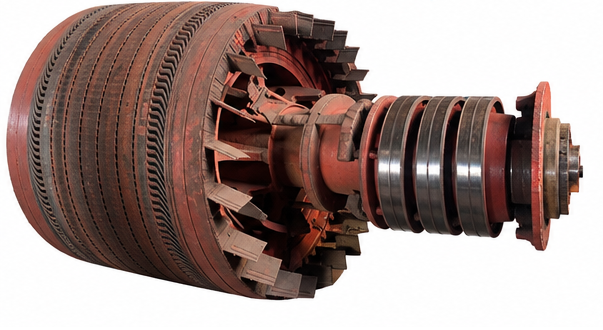
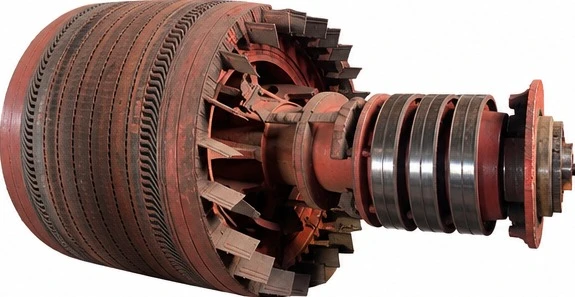
mengganti foto jadi background putih

diff --git a/src/content/site.ts b/src/content/site.ts
@@ -163,6 +163,10 @@ export type Project = {
   year?: string;
   summary?: string;
   image?: string; // "/images/portofolio/nama-file.jpg"
+  // Opsional — titik fokus saat foto dipotong ke kotak, mis. "50% 30%" (kiri-kanan, atas-bawah)
+  focus?: string;
+  // Opsional — "contain" untuk foto berlatar putih/objek terpisah agar tampil utuh, tidak terpotong
+  fit?: "cover" | "contain";
 };
 
 // Diambil dari halaman portofolio situs lama (halaman 1–3).
@@ -172,37 +176,37 @@ export const PROJECTS: Project[] = [
   { title: "Rewinding Motor 1.900 kW", service: "electrical-motor-rewinding", image: "/images/portofolio/rewinding-motor-1900kw.jpg" },
   { title: "Rewinding Motor DC 300 kW", service: "electrical-motor-rewinding", image: "/images/portofolio/rewinding-dc-motor-300kw.jpg" },
   { title: "Rewinding Trafo 2.800 kVA", service: "transformer-maintenance", image: "/images/portofolio/rewinding-trafo-2800kva.jpg" },
-  { title: "Rewinding Trafo 1.250 kVA", service: "transformer-maintenance", image: "/images/portofolio/rewinding-trafo-1250kva.jpg" },
+  { title: "Rewinding Trafo 1.250 kVA", service: "transformer-maintenance", image: "/images/portofolio/rewinding-trafo-1250kva.jpg", fit: "contain" },
   { title: "Rewinding Motor Slipring 2.800 kW", service: "electrical-motor-rewinding", image: "/images/portofolio/rewinding-motor-slipring-2800kw.jpg" },
-  { title: "Overhaul ID Fan 2.500 kW", client: "PLTU Babelan", industry: "Pembangkit Listrik", image: "/images/portofolio/overhaul-id-fan-2500kw-pltu-babelan.jpg" },
-  { title: "Balancing Shaft Rotor 110 kW", service: "mechanical-services", image: "/images/portofolio/balancing-shaft-rotor-110kw.jpg" },
+  { title: "Overhaul ID Fan 2.500 kW", client: "PLTU Babelan", industry: "Pembangkit Listrik", image: "/images/portofolio/overhaul-id-fan-2500kw-pltu-babelan.jpg", focus: "50% 60%" },
+  { title: "Balancing Shaft Rotor 110 kW", service: "mechanical-services", image: "/images/portofolio/balancing-shaft-rotor-110kw.jpg", fit: "contain" },
   { title: "Penggantian Shaft Rotor Motor 250 kW", service: "mechanical-services", image: "/images/portofolio/penggantian-shaft-rotor-250kw.jpg" },
-  { title: "Balancing Screw", service: "mechanical-services", image: "/images/portofolio/balancing-screw.jpg" },
-  { title: "Overhaul Generator 55 MW", client: "PT Gen Bontang, Kalimantan Timur", industry: "Pembangkit Listrik", image: "/images/portofolio/overhaul-generator-55mw-bontang.jpg" },
-  { title: "Overhaul Motor Slipring 1.550 kW", client: "PT Timah, Bangka Kundur", industry: "Pertambangan", image: "/images/portofolio/overhaul-slipring-motor-1550kw-timah.jpg" },
+  { title: "Balancing Screw", service: "mechanical-services", image: "/images/portofolio/balancing-screw.jpg", fit: "contain" },
+  { title: "Overhaul Generator 55 MW", client: "PT Gen Bontang, Kalimantan Timur", industry: "Pembangkit Listrik", image: "/images/portofolio/overhaul-generator-55mw-bontang.jpg", fit: "contain" },
+  { title: "Overhaul Motor Slipring 1.550 kW", client: "PT Timah, Bangka Kundur", industry: "Pertambangan", image: "/images/portofolio/overhaul-slipring-motor-1550kw-timah.jpg", fit: "contain" },
   { title: "Overhaul Steam Turbine 1 MW", client: "PT PAA Dumai", image: "/images/portofolio/overhaul-steam-turbine-1mw-dumai.jpg" },
   // Halaman 2
   { title: "Overhaul Steam Turbine 7,5 MW", client: "PKS Dumai", image: "/images/portofolio/overhaul-steam-turbine-7-5mw-pks-dumai.jpg" },
   { title: "Rekondisi Steam Turbine Kapal Tanker", client: "Pertamina", industry: "Maritim", image: "/images/portofolio/rekondisi-steam-turbine-tanker-pertamina.jpg" },
-  { title: "Overhaul Generator 5 MW", client: "PKS Dumai", image: "/images/portofolio/overhaul-generator-5mw-pks-dumai.jpg" },
-  { title: "Alignment Laser 2.850 kW", service: "mechanical-services", image: "/images/portofolio/alignment-laser-2850kw.jpg" },
-  { title: "Alignment Laser 2.860 kW", service: "mechanical-services", image: "/images/portofolio/alignment-laser-2860kw.jpg" },
-  { title: "Overhaul Motor 1.100 kW", image: "/images/portofolio/overhaul-motor-1100kw.webp" },
-  { title: "Overhaul Motor 1.200 kW", image: "/images/portofolio/overhaul-motor-1200kw.webp" },
+  { title: "Overhaul Generator 5 MW", client: "PKS Dumai", image: "/images/portofolio/overhaul-generator-5mw-pks-dumai.jpg", fit: "contain" },
+  { title: "Alignment Laser 2.850 kW", service: "mechanical-services", image: "/images/portofolio/alignment-laser-2850kw.jpg", fit: "contain" },
+  { title: "Alignment Laser 2.860 kW", service: "mechanical-services", image: "/images/portofolio/alignment-laser-2860kw.jpg", fit: "contain" },
+  { title: "Overhaul Motor 1.100 kW", image: "/images/portofolio/overhaul-motor-1100kw.webp", fit: "contain" },
+  { title: "Overhaul Motor 1.200 kW", image: "/images/portofolio/overhaul-motor-1200kw.webp", fit: "contain" },
   { title: "Perbaikan Rotor & Komutator 250 kW", service: "mechanical-services", image: "/images/portofolio/repairing-rotor-commutator-250kw.webp" },
   // Tiga proyek di bawah ini mungkin sama dengan proyek di atas (judul mirip, foto berbeda) — cek & hapus jika dobel
   { title: "Rekondisi Steam Turbine Kapal", industry: "Maritim", image: "/images/portofolio/rekondisi-turbine-steam-kapal.webp" },
   { title: "Overhaul Turbine 7,5 MW", image: "/images/portofolio/overhaul-turbine-7-5mw.webp" },
-  { title: "Overhaul Generator 5 MW (Rotor)", image: "/images/portofolio/overhaul-generator-5mw.webp" },
-  { title: "Overhaul Motor 2.500 kW", image: "/images/portofolio/overhaul-motor-2500kw.webp" },
+  { title: "Overhaul Generator 5 MW (Rotor)", image: "/images/portofolio/overhaul-generator-5mw.webp", fit: "contain" },
+  { title: "Overhaul Motor 2.500 kW", image: "/images/portofolio/overhaul-motor-2500kw.webp", fit: "contain" },
   // Halaman 3
   { title: "Rewinding Trafo 500 kVA", service: "transformer-maintenance", image: "/images/portofolio/rewinding-trafo-500kva.webp" },
-  { title: "Balancing On-site Blower", service: "mechanical-services", image: "/images/portofolio/balancing-on-site-blower.webp" },
+  { title: "Balancing On-site Blower", service: "mechanical-services", image: "/images/portofolio/balancing-on-site-blower.webp", fit: "contain" },
   { title: "Rewinding Motor 400 kW", service: "electrical-motor-rewinding", image: "/images/portofolio/rewinding-motor-400kw.webp" },
   { title: "Skimming & Undercutting Komutator", service: "mechanical-services", image: "/images/portofolio/skimming-undercutting.webp" },
   { title: "Rewinding Lifting Magnet", service: "electrical-motor-rewinding", image: "/images/portofolio/rewinding-lifting-magnet.webp" },
-  { title: "Overhaul Genset 225 kVA", image: "/images/portofolio/overhaul-genset-225kva.webp" },
-  { title: "Overhaul Motor Slip Ring", image: "/images/portofolio/overhaul-slip-ring-motor.webp" },
+  { title: "Overhaul Genset 225 kVA", image: "/images/portofolio/overhaul-genset-225kva.webp", fit: "contain" },
+  { title: "Overhaul Motor Slip Ring", image: "/images/portofolio/overhaul-slip-ring-motor.webp", fit: "contain" },
 ];
 
 export type Facility = {

diff --git a/src/components/pages/PortfolioPage.tsx b/src/components/pages/PortfolioPage.tsx
@@ -27,7 +27,9 @@ function ProjectCard({ p, onOpen }: { p: Project; onOpen: () => void }) {
         type="button"
         onClick={onOpen}
         disabled={!p.image}
-        className="relative block aspect-[4/3] w-full overflow-hidden bg-navy disabled:cursor-default"
+        className={`relative block aspect-[4/3] w-full overflow-hidden disabled:cursor-default ${
+          p.fit === "contain" ? "bg-white" : "bg-navy"
+        }`}
         aria-label={`${t("Lihat foto")}: ${t(p.title)}`}
       >
         {p.image && (
@@ -35,21 +37,24 @@ function ProjectCard({ p, onOpen }: { p: Project; onOpen: () => void }) {
             src={p.image}
             alt={t(p.title)}
             fill
-            sizes="(min-width: 1024px) 33vw, (min-width: 640px) 50vw, 100vw"
-            className="object-cover transition-transform duration-700 ease-out group-hover:scale-105"
+            sizes="(min-width: 1280px) 300px, (min-width: 1024px) 25vw, (min-width: 768px) 33vw, (min-width: 480px) 50vw, 100vw"
+            className={`transition-transform duration-700 ease-out group-hover:scale-105 ${
+              p.fit === "contain" ? "object-contain p-3 sm:p-4" : "object-cover"
+            }`}
+            style={{ objectPosition: p.focus ?? "center" }}
           />
         )}
         {service && (
-          <span className="absolute left-0 top-0 bg-paper px-3 py-2 text-[11px] font-medium text-ink">
+          <span className="absolute left-0 top-0 bg-paper px-2.5 py-1.5 text-[10px] font-medium text-ink sm:text-[11px]">
             {t(service.title)}
           </span>
         )}
       </button>
-      <div className="flex flex-1 flex-col p-6">
+      <div className="flex flex-1 flex-col p-4 sm:p-5">
         {meta && <p className="eyebrow text-[11px] text-blue">{meta}</p>}
-        <h2 className="mt-2 font-display text-xl font-semibold leading-snug text-ink">{t(p.title)}</h2>
-        {p.client && <p className="mt-2 text-sm text-muted">{p.client}</p>}
-        {p.summary && <p className="mt-3 text-sm leading-relaxed text-muted">{t(p.summary)}</p>}
+        <h2 className="mt-1.5 font-display text-base font-semibold leading-snug text-ink sm:text-lg">{t(p.title)}</h2>
+        {p.client && <p className="mt-1.5 text-xs text-muted sm:text-sm">{p.client}</p>}
+        {p.summary && <p className="mt-2 text-sm leading-relaxed text-muted">{t(p.summary)}</p>}
       </div>
     </article>
   );
@@ -106,9 +111,9 @@ export default function PortfolioPage() {
                 ))}
               </div>
 
-              <div className="mt-10 grid grid-cols-1 gap-6 sm:grid-cols-2 lg:grid-cols-3">
+              <div className="mt-8 grid grid-cols-1 gap-4 min-[480px]:grid-cols-2 sm:mt-10 sm:gap-5 md:grid-cols-3 lg:grid-cols-4 lg:gap-6">
                 {items.slice(0, visible).map((p, i) => (
-                  <Reveal key={p.title} delay={(i % 3) * 80} className="h-full">
+                  <Reveal key={p.title} delay={(i % 4) * 70} className="h-full">
                     <ProjectCard p={p} onOpen={() => setOpen(p)} />
                   </Reveal>
                 ))}
